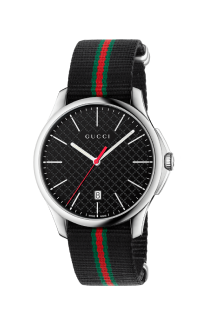
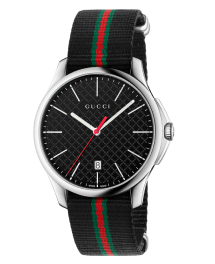
fix image-fluid

Changed region(s): [[0.1674, 0.0303, 0.8093, 0.9697]]

diff --git a/index.html b/index.html
@@ -157,7 +157,7 @@
                     <a href="#"
                       ><img
                         src="./images/watch/Louis XVI ATHOS.png"
-                        class="watch-card-img"
+                        class="watch-card-img img-fluid"
                         alt="Louis XVI ATHOS"
                     /></a>
                     <div class="watch-card-discription">
@@ -171,7 +171,7 @@
                     <a href="#"
                       ><img
                         src="./images/watch/Carl von Zeyten.png"
-                        class="watch-card-img"
+                        class="watch-card-img img-fluid"
                         alt="Carl von Zeyten"
                     /></a>
                     <div class="watch-card-discription">
@@ -185,7 +185,7 @@
                     <a href="#"
                       ><img
                         src="./images/watch/JORD AR5905.png"
-                        class="watch-card-img"
+                        class="watch-card-img img-fluid"
                         alt="JORD AR5905"
                     /></a>
                     <div class="watch-card-discription">
@@ -198,7 +198,11 @@
             </div>
             <div class="col">
               <div class="collection-img">
-                <img src="./images/img/man-rec.png" alt="man-rec" />
+                <img
+                  class="img-fluid"
+                  src="./images/img/man-rec.png"
+                  alt="man-rec"
+                />
                 <div class="collection-img-title">
                   <h2 class="title-discription">Нова колекція</h2>
                   <div class="title-under-line"></div>
@@ -210,7 +214,11 @@
           <div class="row align-content-between">
             <div class="col">
               <div class="collection-img2">
-                <img src="./images/img/man-rec2.png" alt="man-rec2" />
+                <img
+                  class="img-fluid"
+                  src="./images/img/man-rec2.png"
+                  alt="man-rec2"
+                />
               </div>
             </div>
             <div class="col">
@@ -257,7 +265,7 @@
                 <a href="#"
                   ><img
                     src="./images/watch/Carl von Zeyten.png"
-                    class="watch-card-img"
+                    class="watch-card-img img-fluid"
                     alt="Carl von Zeyten"
                 /></a>
                 <div class="watch-card-discription">
@@ -271,7 +279,7 @@
                 <a href="#"
                   ><img
                     src="./images/watch/JORD AR5905.png"
-                    class="watch-card-img"
+                    class="watch-card-img img-fluid"
                     alt="JORD AR5905"
                 /></a>
                 <div class="watch-card-discription">
@@ -285,7 +293,7 @@
                 <a href="#"
                   ><img
                     src="./images/watch/Emporio Armani Sportivo.png"
-                    class="watch-card-img"
+                    class="watch-card-img img-fluid"
                     alt="Emporio Armani Sportivo"
                 /></a>
                 <div class="watch-card-discription">
@@ -299,7 +307,7 @@
                 <a href="#"
                   ><img
                     src="./images/watch/Rolex Oyster Perpetual.png"
-                    class="watch-card-img"
+                    class="watch-card-img img-fluid"
                     alt="Rolex Oyster Perpetual"
                 /></a>
                 <div class="watch-card-discription">
@@ -315,7 +323,7 @@
                 <a href="#"
                   ><img
                     src="./images/watch/Louis XVI ATHOS.png"
-                    class="watch-card-img"
+                    class="watch-card-img img-fluid"
                     alt="Louis XVI ATHOS"
                 /></a>
                 <div class="watch-card-discription">
@@ -329,7 +337,7 @@
                 <a href="#"
                   ><img
                     src="./images/watch/U-Boat Italo Fontana.png"
-                    class="watch-card-img"
+                    class="watch-card-img img-fluid"
                     alt="U-Boat Italo Fontana"
                 /></a>
                 <div class="watch-card-discription">
@@ -343,7 +351,7 @@
                 <a href="#"
                   ><img
                     src="./images/watch/Gucci Men's G.png"
-                    class="watch-card-img"
+                    class="watch-card-img img-fluid"
                     alt="Gucci Men's G"
                 /></a>
                 <div class="watch-card-discription">
@@ -356,7 +364,7 @@
               <div class="watch-card-product watch-card-in">
                 <img
                   src="./images/watch/Carl von Zeyten.png"
-                  class="watch-card-img"
+                  class="watch-card-img img-fluid"
                   alt="Carl von Zeyten"
                 /><button type="button" class="btn-trans btn-trans-in">
                   показати всі
@@ -380,7 +388,11 @@
           <div class="row article-section-news align-items-center">
             <div class="col align-items-center">
               <div class="article-img">
-                <img src="./images/img/article1.png" alt="article1" />
+                <img
+                  class="img-fluid"
+                  src="./images/img/article1.png"
+                  alt="article1"
+                />
               </div>
             </div>
             <div class="col article-news align-items-center">
@@ -407,7 +419,11 @@
           <div class="row article-section-news align-items-center">
             <div class="col align-items-center">
               <div class="article-img">
-                <img src="./images/img/article2.png" alt="article2" />
+                <img
+                  class="img-fluid"
+                  src="./images/img/article2.png"
+                  alt="article2"
+                />
               </div>
             </div>
             <div class="col article-news align-items-center">
@@ -436,7 +452,11 @@
           <div class="row article-section-news align-items-center">
             <div class="col align-items-center">
               <div class="article-img">
-                <img src="./images/img/article3.png" alt="article3" />
+                <img
+                  class="img-fluid"
+                  src="./images/img/article3.png"
+                  alt="article3"
+                />
               </div>
             </div>
             <div class="col article-news align-items-center">
@@ -474,28 +494,28 @@
             <div class="col-lg-auto col-md-6 partners-item"></div>
             <div class="col-lg-2 col-md-6 partners-item">
               <img
-                class="partners-img"
+                class="partners-img img-fluid"
                 src="./images/img/partner1.png"
                 alt="partner1"
               />
             </div>
             <div class="col-lg-2 col-md-6 partners-item">
               <img
-                class="partners-img"
+                class="partners-img img-fluid"
                 src="./images/img/partner2.png"
                 alt="partner2"
               />
             </div>
             <div class="col-lg-2 col-md-6 partners-item">
               <img
-                class="partners-img"
+                class="partners-img img-fluid"
                 src="./images/img/partner3.png"
                 alt="partner3"
               />
             </div>
             <div class="col-lg-2 col-md-6 partners-item">
               <img
-                class="partners-img"
+                class="partners-img img-fluid"
                 src="./images/img/partner4.png"
                 alt="partner4"
               />

diff --git a/styles/main.css b/styles/main.css
@@ -226,14 +226,13 @@ body {
 }
 
 .watch-card-product {
-  width: 260px;
-  height: 405px;
+  max-width: 260px;
+  max-height: 405px;
 }
 
 .watch-card-img {
   align-self: center;
-  width: 260px;
-  height: 325px;
+  max-width: 215px;
   background: #191b1c;
   margin-bottom: 25px;
   overflow: hidden;
@@ -263,8 +262,7 @@ body {
 
 .collection-img {
   position: relative;
-  width: 880px;
-  height: 730px;
+  max-width: 880px;
 }
 .collection-img-title {
   position: absolute;
@@ -273,8 +271,7 @@ body {
 }
 
 .collection-img2 {
-  width: 936px;
-  height: 600px;
+  max-width: 936px;
 }
 .collection-img-title2 {
   height: 600px;
@@ -337,8 +334,7 @@ body {
   margin-top: 35px;
 }
 .article-img {
-  width: 989px;
-  height: 437px;
+  max-width: 989px;
 }
 .article-news {
   display: flex;
